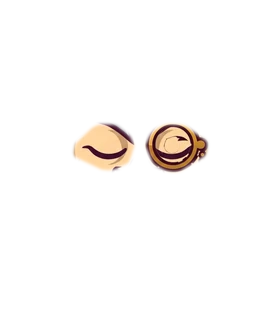
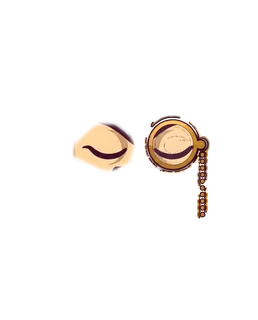
Výrazy Mudrlanta: pod monoklem bez zornice původního oka, obrysy očí v barvě taláru
Claude-Session: https://claude.ai/code/session_01BQmFBYsgGAXtVP2veUue6Z

Changed region(s): [[0.5581, 0.3438, 0.8372, 0.6875]]

diff --git a/scripts/owl-expressions.py b/scripts/owl-expressions.py
@@ -40,6 +40,32 @@ def eye_mask(expr, ref, frame):
     return cv2.GaussianBlur(filled.astype(np.float32), (0, 0), 6)
 
 
+def monocle_over(expr, base):
+    """Monokl přes nové oči: zlaté obroučky a řetízek z původní sovy a jen jejich tenký tmavý obrys. Na rozdíl od owl-age.py
+    bez tmavých míst uvnitř skla (tam má původní sova otevřené oko a jeho zornice by prosvítala přes zavřené oko výrazu)."""
+    area = acc.MONOCLE_AREA
+    hsv = cv2.cvtColor(base, cv2.COLOR_RGB2HSV).astype(np.int16)
+    gold = (hsv[..., 0] >= 8) & (hsv[..., 0] <= 34) & (hsv[..., 1] > 90) & (hsv[..., 2] > 80) & (area > 0)
+    gold = cv2.morphologyEx(gold.astype(np.uint8), cv2.MORPH_CLOSE, cv2.getStructuringElement(cv2.MORPH_ELLIPSE, (7, 7)))
+    # vnitřek skla: díry uvnitř obroučky
+    filled = gold.copy()
+    contours, _ = cv2.findContours(gold, cv2.RETR_EXTERNAL, cv2.CHAIN_APPROX_SIMPLE)
+    cv2.drawContours(filled, contours, -1, 1, -1)
+    glass_all = ((filled > 0) & (gold == 0)).astype(np.uint8)
+    inside = cv2.erode(glass_all, cv2.getStructuringElement(cv2.MORPH_ELLIPSE, (3, 3)))
+    band = cv2.dilate(gold, cv2.getStructuringElement(cv2.MORPH_ELLIPSE, (17, 17))) & (area > 0) & (inside == 0)
+    take = (gold > 0) | ((band > 0) & (hsv[..., 2] < 90))
+    take = cv2.morphologyEx(take.astype(np.uint8), cv2.MORPH_CLOSE, np.ones((3, 3), np.uint8))
+    a = cv2.GaussianBlur(take.astype(np.float32), (0, 0), 1.0)[..., None]
+    # sklo: lehký odlesk jako na původní sově (zesvětlení vnitřku o pár procent)
+    glass = cv2.GaussianBlur(inside.astype(np.float32), (0, 0), 2.0)[..., None] * 0.08
+    out = expr.astype(np.float32) * (1 - glass) + 255 * glass
+    rgb = np.clip(out * (1 - a) + base.astype(np.float32) * a, 0, 255).astype(np.uint8)
+    # vrstva musí zakrýt celé sklo i obroučku (pod ní je v logu otevřené oko)
+    cover = cv2.dilate((filled > 0).astype(np.uint8), cv2.getStructuringElement(cv2.MORPH_ELLIPSE, (9, 9))).astype(np.float32)
+    return rgb, cover
+
+
 def main(names, preview):
     base = acc.load_base()
     frame = acc.logo_frame(base)
@@ -54,9 +80,10 @@ def main(names, preview):
         expr = acc.align(base, np.asarray(Image.open(os.path.join(SRC, f)).convert('RGB')), border=0)
         ref = acc.align(base, reference(n), border=0)
         mask = eye_mask(expr, ref, frame)
-        for suffix, rgb in (('', expr), ('-monokl', age.monocle_over(expr, base))):
+        with_monocle, cover = monocle_over(expr, base)
+        for suffix, rgb, alpha in (('', expr, mask), ('-monokl', with_monocle, np.maximum(mask, cover))):
             path = os.path.join(OUT, f'{name}-vek{n}{suffix}.webp')
-            age.to_logo(rgb, mask, frame, path)
+            age.to_logo(rgb, alpha, frame, path)
         shots.append((name, n))
     if preview:
         tiles = []

diff --git a/scripts/owl-robes.py b/scripts/owl-robes.py
@@ -138,8 +138,8 @@ wanted = sys.argv[1:] or list(ROBES)
 unknown = [robe for robe in wanted if robe not in ROBES]
 if unknown: sys.exit(f'Neznámá barva: {", ".join(unknown)} (známé: {", ".join(ROBES)})')
 # Logo sovy bez monoklu (icons/logo-bez-monoklu.webp ze scripts/owl-accessories.py --logo) má stejné barvy obleku jako logo
-# Mudrlant stárne (scripts/owl-age.py): logo-vek<n>.webp a logo-vek<n>-bez-monoklu.webp
-sources = [os.path.join(root, 'logo.webp'), os.path.join(root, 'logo-bez-monoklu.webp')] + [p for p in sorted(glob.glob(os.path.join(root, 'logo-vek*.webp'))) if not any(p.endswith(f'-{c}.webp') for c in ROBES)] + sorted(glob.glob(os.path.join(root, 'topics', 'sova-*.webp')))
+# Mudrlant stárne (scripts/owl-age.py): logo-vek<n>.webp a logo-vek<n>-bez-monoklu.webp; výrazy (scripts/owl-expressions.py): vyrazy/*.webp
+sources = [os.path.join(root, 'logo.webp'), os.path.join(root, 'logo-bez-monoklu.webp')] + [p for p in sorted(glob.glob(os.path.join(root, 'vyrazy', '*.webp'))) if not any(p.endswith(f'-{c}.webp') for c in ROBES)] + [p for p in sorted(glob.glob(os.path.join(root, 'logo-vek*.webp'))) if not any(p.endswith(f'-{c}.webp') for c in ROBES)] + sorted(glob.glob(os.path.join(root, 'topics', 'sova-*.webp')))
 only = set(filter(None, os.environ.get('ONLY', '').split(',')))
 for path in sources:
     base = os.path.splitext(os.path.basename(path))[0]
